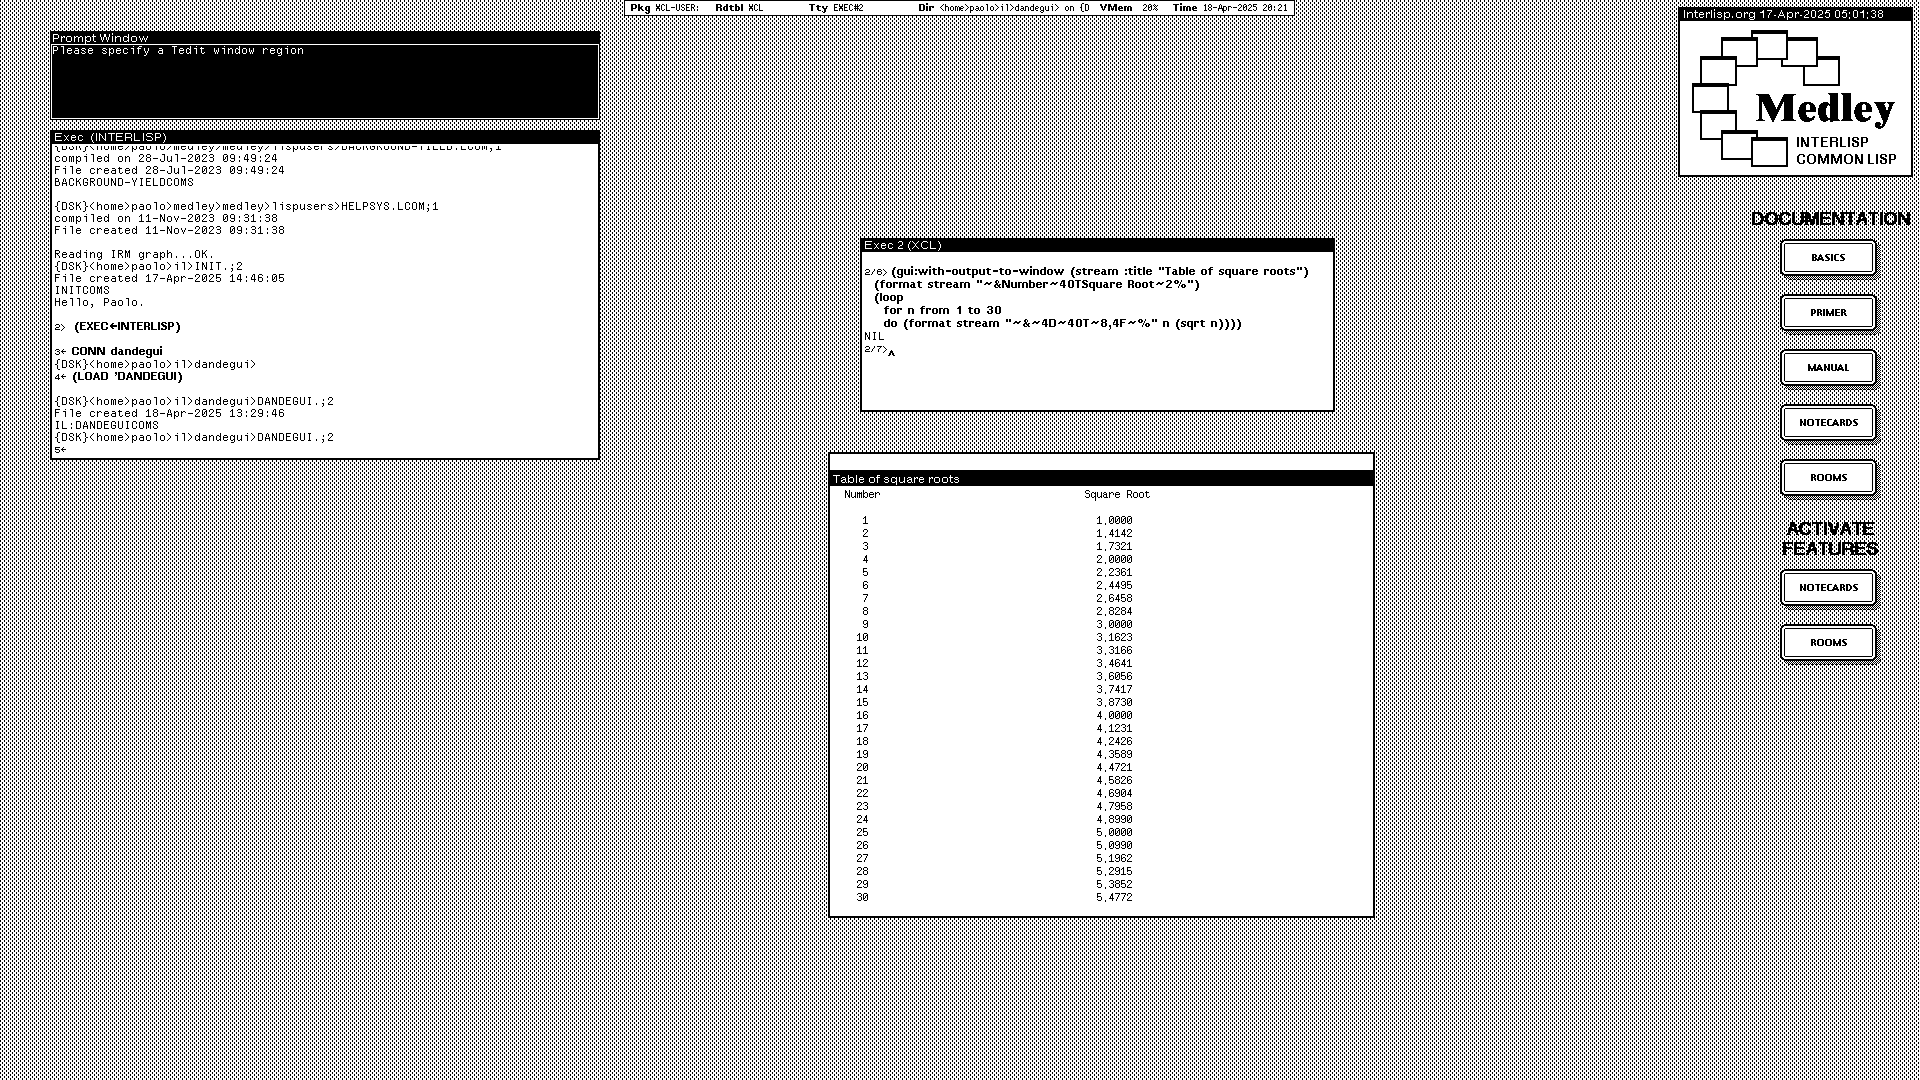
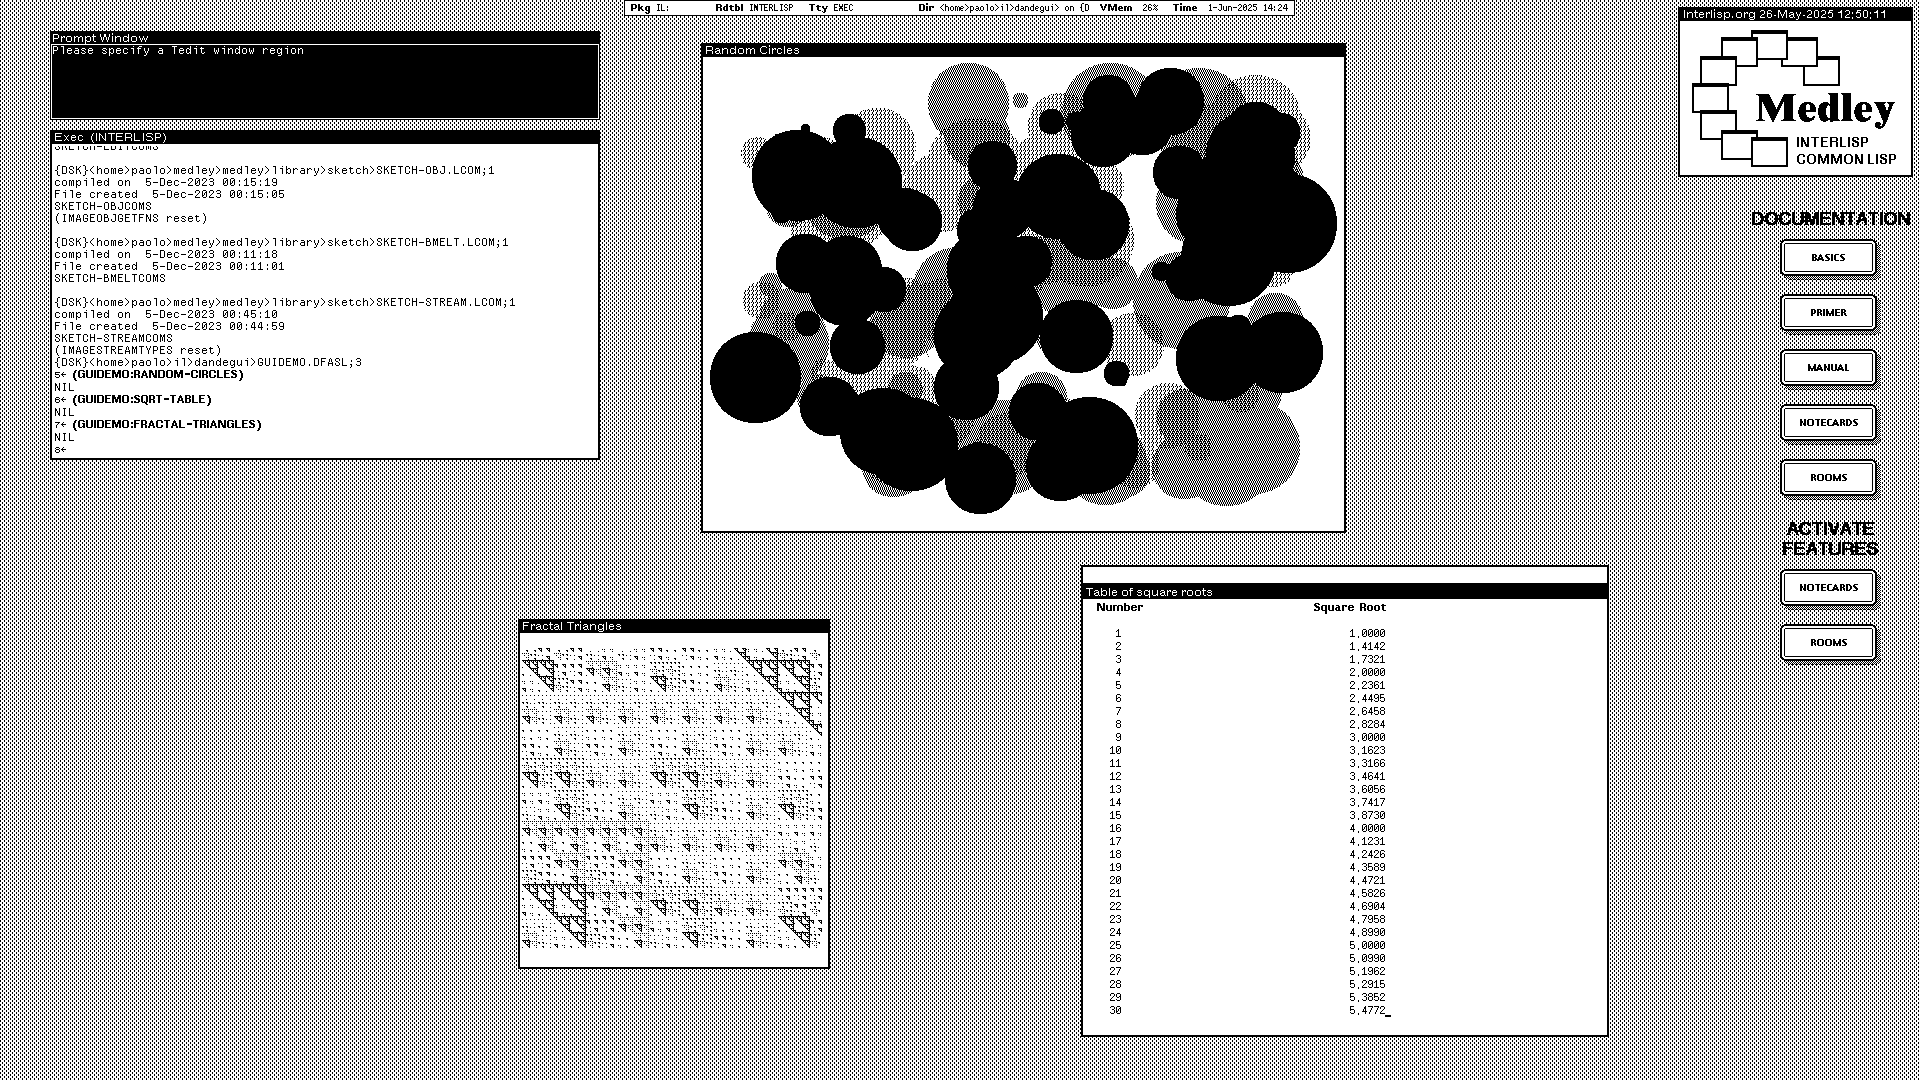
Implement graphics support
Implement and document the functions and macros for sending output to
graphics window streams.

Revise the documentation of PRINT-MESSAGE, CLEAR-WINDOW, and
WINDOW-TITLE to reflect their support for graphics streams. Update the
screenshot with one that also shows graphics output.

Changed region(s): [[0.25, 0.0306, 0.8438, 0.9778], [0.0312, 0.1528, 0.1562, 0.3972], [0.9375, 0.0, 0.9688, 0.0306]]

diff --git a/README.md b/README.md
@@ -2,7 +2,7 @@
 
 DandeGUI (pronounced "dandy guy") is a Medley Interlisp library of GUI elements and facilities for programs that output simple text and graphics.
 
-![A text output window created with DandeGUI on Medley Interlisp and the Lisp code that generated it.](https://raw.githubusercontent.com/pamoroso/dandegui/main/dandegui.png)
+![Some text and graphics output windows created with DandeGUI on Medley Interlisp.](https://raw.githubusercontent.com/pamoroso/dandegui/main/dandegui.png)
 
 The library, which is written in and exposes its functionality as Common Lisp, provides windows for stream-based text and graphical output which automaticaly handle repainting, resizing, and scrolling. DandeGUI captures typical GUI patterns of the Medley environment such as printing text to a new window instead of an Exec.
 
@@ -30,75 +30,94 @@ or:
 
 ## Usage
 
-The functions and macros of DandeGUI create read-only, resizable windows with scrollable content and allow to send output to these windows. Any text in the windows may be selected and copied via the usual facilities of the Medley environment.
+The facilities of DandeGUI create read-only, resizable windows with scrollable content and allow to send output to these windows. Any text in text windows may be selected and copied via the usual facilities of the Medley environment.
 
 
 ### Examples
 
-Suppose you want to display a table of square roots in new window. The table contains a row with the headings of two columns, one for a sequence of numbers and the other for the corresponding square roots. The simplest way to do this is to use the DandeGUI macro `WITH-OUTPUT-TO-WINDOW`:
+The functions and macros of DandeGUI set up and control windows to which programs can send text or graphical via the Lisp streams associated with the windows.
+
+
+#### Printing text
+
+Suppose you want to display a table of square roots in a new window. The table contains a row with the headings of two columns, one for a sequence of numbers and the other for the corresponding square roots. The simplest way to do this is to use the DandeGUI macro `WITH-OUTPUT-TO-WINDOW`:
 
 ```lisp
-(gui:with-output-to-window (stream :title "Table of square roots")
-  (format stream "~&Number~40TSquare Root~2%")
-  (loop
-    for n from 1 to 30
-    do (format stream "~&~4D~40T~8,4F~%" n (sqrt n))))
+(GUI:WITH-OUTPUT-TO-WINDOW (STREAM :TITLE "Table of square roots")
+  (FORMAT STREAM "~&Number~40TSquare Root~2%")
+  (LOOP
+    FOR N FROM 1 TO 30
+    DO (FORMAT STREAM "~&~4D~40T~8,4F~%" N (SQRT N))))
 ```
 
-This code produces the main window in the screenshot above. The variable `stream` is bound to the stream associated to a newly created window with title supplied by `:title`. The calls to `format` populate the table by printing to `stream`.
+This code produces one of the windows in the screenshot above. The variable `stream` is bound to the stream associated with a newly created window with title supplied by `:TITLE`. The calls to `FORMAT` populate the table by printing to `STREAM`.
 
 
 #### Changing text style
 
-The macro `WITH-TEXT-STYLE` lets you control the attributes of the text printed to a window such as the family and face of the font. Let's modify the square root table example to call `WITH-TEXT-STYLE` to print the column heading in a 12 points sans serif bold font:
+The macro `WITH-TEXT-STYLE` lets you change the attributes of the text printed to a window such as the family and face of the font. Let's modify the square root table example to call `WITH-TEXT-STYLE` to print the column heading in a 12 points sans serif bold font:
 
 ```lisp
-(gui:with-output-to-window (stream :title "Table of square roots")
-  (gui:with-text-style (stream :family :sans :size 12 :face :bold)
-    (format stream "~&Number~40TSquare Root~2%"))
-  (loop
-    for n from 1 to 30
-    do (format stream "~&~4D~40T~8,4F~%" n (sqrt n))))
+(GUI:WITH-OUTPUT-TO-WINDOW (STREAM :TITLE "Table of square roots")
+  (GUI:WITH-TEXT-STYLE (STREAM :FAMILY :SANS :SIZE 12 :FACE :BOLD)
+    (FORMAT STREAM "~&Number~40TSquare Root~2%"))
+  (LOOP
+    FOR N FROM 1 TO 30
+    DO (FORMAT STREAM "~&~4D~40T~8,4F~%" N (SQRT N))))
 ```
 
 
 #### Using text window streams
 
-Since `stream` is not accessible outside of the scope of the macro, `WITH-OUTPUT-TO-WINDOW` works best with one-off output you don't need to append to. A combination of `OPEN-WINDOW-STREAM` and `WITH-WINDOW-STREAM` is a better option if instead you generate the output in successive steps; from different parts of the program; or interleave output to more than one window:
+Since the bound stream is not accessible outside of the scope of the macro, `WITH-OUTPUT-TO-WINDOW` works best with one-off output you don't need to append to. A combination of `OPEN-WINDOW-STREAM` and `WITH-WINDOW-STREAM` is a better option if instead you generate the output in successive steps; from different parts of the program; or interleave output to more than one window:
 
 ```lisp
-(defun print-output1 (stream)
-  (with-window-stream (str stream)
-    (format str "...")
+(DEFUN PRINT-OUTPUT1 (STREAM)
+  (GUI:WITH-WINDOW-STREAM (STR STREAM)
+    (FORMAT STR "...")
   
     ;; ...
   
-    (format str "...")))
+    (FORMAT STR "...")))
 
-(defun print-output2 (stream)
-  (with-window-stream (str stream)
-    (format str "...")
+(DEFUN PRINT-OUTPUT2 (STREAM)
+  (GUI:WITH-WINDOW-STREAM (STREAM)
+    (FORMAT STR "...")
   
     ;; ...
   
-    (format str "...")))
+    (FORMAT STR "...")))
 
-(defun do-something-else ()
+(DEFUN DO-SOMETHING-ELSE ()
   ;; ...
   )
 
-(defun main-program ()
-  (let ((stream (gui:open-window-stream :title "Output Window")))
-    (print-output1 stream)
-    (do-something-else)
-    (print-output2 stream)))
+(DEFUN MAIN-PROGRAM ()
+  (LET ((STREAM (GUI:OPEN-WINDOW-STREAM :TITLE "Output Window")))
+    (PRINT-OUTPUT1 STREAM)
+    (DO-SOMETHING-ELSE)
+    (PRINT-OUTPUT2 STREAM)))
 
-(main-program)
+(MAIN-PROGRAM)
 ```
 
-The function `OPEN-WINDOW-STREAM` creates a new window with title supplied by`:TITLE` and returns the associated output stream which output functions can print to. The functions must be wrapped in the context `WITH-WINDOW-STREAM` establishes by binding a variable to the appropriate stream. 
+The function `OPEN-WINDOW-STREAM` creates a new window with title supplied by`:TITLE` and returns the corresponding output stream which output functions can print to. The functions must be wrapped in the context `WITH-WINDOW-STREAM` establishes by binding a variable to the appropriate stream. 
 
-Like any other open stream the value of `OPEN-WINDOW-STREAM` may be closed when no longer in use, for example with `CLOSE`.
+Like any other open stream the value of `OPEN-WINDOW-STREAM` may be closed when no longer in use, for example with `IL:CLOSE`.
+
+
+#### Drawing graphics
+
+The macro `WITH-GRAPHICS-STREAM` is the equivalent of `WITH-OUTPUT-TO-WINDOW` for graphics: it binds a variable to the stream of a new window to which the graphics operations in the body can send output to. This example uses `WITH-GRAPHICS-STREAM` to draw a pattern of triangular fractals:
+
+```lisp
+(GUI:WITH-GRAPHICS-WINDOW (STREAM :TITLE "Fractal Triangles")
+  (DOTIMES (X 300)
+    (DOTIMES (Y 300)
+      (WHEN (ZEROP (MOD (LOGIOR X Y)
+                        7))
+        (IL:DRAWPOINT X Y NIL STREAM)))))
+```
 
 
 ### Demos
@@ -107,7 +126,17 @@ The file `GUIDEMO` provides sample code to demonstrate the features of DandeGUI 
 
 To run the demos first load the file with `(LOAD 'GUIDEMO)`, which is not necessary to compile. If the compiled file `DANDEGUI.FASL` isn't already loaded `GUIDEMO` will load it assuming it's in the same directory or somewhere in the load path.
 
-`GUIDEMO` exports the following functions from the `GUIDEMO` package.
+`GUIDEMO` exports from the `GUIDEMO` package the following functions which produce the corresponding output in the screenshot.
+
+
+#### `FRACTAL-TRIANGLES &KEY WIDTH HEIGHT` [function]
+
+Draw a pattern of triangular fractals in a new window. The pattern has a size of `WIDTH` by `HEIGHT` pixels which both have defaults.
+
+
+#### `RANDOM-CIRCLES &KEY N MAX-R WIDTH HEIGHT` [fnction]
+
+Draw `N` random filled circles in a new window. The circles are filled with a random shade, have a maximum radius `MAX-R`, and are drawn in an area of `WIDTH` by `HEIGHT` pixels. `N`, `MAX-R`, `WIDTH`, and `HEIGHT` have suitable defaults.
 
 
 #### `SQRT-TABLE &OPTIONAL N` [function]
@@ -117,57 +146,86 @@ Displays in a new text window a table of the square roots of the integers up to 
 
 ### API reference
 
-The functionality of DandeGUI is accessible via the following functions and macros in the `DANDEGUI` package nicknamed `GUI`.
+The functionality of DandeGUI is accessible via the following functions and macros exported from the `DANDEGUI` package nicknamed `GUI`. They operate on Lisp streams of two types, text and graphics.
 
-Whenever a stream is passed or returned it is intended as an Interlisp `TEXTSTREAM` to which text may be printed by any output function that takes a stream as an argument such as with `FORMAT`, `PRIN1`, and so on. However, these functions must be called only using the DandeGUI output context macros and not outside ot them.
+DandeGUI text output functions and macros operate on Interlisp `TEXTSTREAM` streams to which text may be sent by any printing function that takes a stream as an argument such as with `CL:FORMAT`, `CL:PRIN1`, and so on. However, these functions must be called using the DandeGUI output context macros and not outside ot them.
 
-
-#### `CLEAR-WINDOW STREAM` [function]
-
-Delete the text of the window associated with `STREAM`. More output may later be sent to the stream and the new text will appear at the beginning of the window.
+DandeGUI graphical output facilities operate on Interlisp `IMAGESTREAM` streams to which graphical elements may be drawn by most graphics primitives that take a stream as an argument such `IL:DRAWLINE` and `IL:DRAWPOINT`.
 
 
-#### `*DEFAULT-FONT*` [variable]
+#### Text output
 
-The default font of text windows, which must be an Interlisp font descriptor or a font list such as `(IL:TERMINAL 10)`.
-
-
-#### `OPEN-WINDOW-STREAM &KEY TITLE` [function]
+##### `OPEN-WINDOW-STREAM &KEY TITLE` [function]
 
 Opens a new text window and returns the associated output stream. The function sets the window title to `TITLE` if supplied.
 
 
-#### `PRINT-MESSAGE STREAM MESSAGE &OPTIONAL DONT-CLEAR-P` [function]
-
-Prints the string `MESSAGE` to the prompt area of the text window associated with `STREAM` and returns `STREAM`. If `DONT-CLEAR-P` is non NIL the area will be cleared first.
-
-To clear the prompt area pass the empty string as the message and `t` as the optional argument, e.g. call `(gui:print-message stream "" t)`.
-
-
-#### `WINDOW-TITLE STREAM` [function]
-
-Returns the title associated with `STREAM` or sets it if called from `SETF`.
-
-
-#### `WITH-OUTPUT-TO-WINDOW (VAR &KEY TITLE) &BODY BODY` [macro]
+##### `WITH-OUTPUT-TO-WINDOW (VAR &KEY TITLE) &BODY BODY` [macro]
 
 Performs the operations in `BODY` with `VAR` bound to a new text window stream.
 
-Creates a new window titled `TITLE` if supplied, binds `VAR` to the `TEXTSTREAM` associated with the window, and executes `BODY` in this context. Returns the value of the last form of `BODY`. After control leaves the context of `WITH-OUTPUT-TO-WINDOW` the new window no longer accepts output to the associated stream.
+Creates a new window titled `TITLE` if supplied, binds `VAR` to the stream associated with the window, and executes `BODY` in this context. Returns the value of the last form of `BODY`. After control leaves the context of `WITH-OUTPUT-TO-WINDOW` the new window no longer accepts output to the associated stream.
 
 
-#### `WITH-TEXT-STYLE (STREAM &KEY FAMILY SIZE FACE) &BODY BODY` [macro]
+##### `WITH-TEXT-STYLE (STREAM &KEY FAMILY SIZE FACE) &BODY BODY` [macro]
 
-Performs the operations in `BODY` in a context in which text printed to `STREAM` is rendered in the text style specified by `FAMILY`, `SIZE`, and `FACE`. Uses `*DEFAULT-FONT*` if no matching style is available.
+Performs the operations in `BODY` in a context in which text printed to the text stream `STREAM` is rendered in the style specified by `FAMILY`, `SIZE`, and `FACE`. Uses `*DEFAULT-FONT*` if no matching style is available.
 
 `FAMILY` must be one of `:SERIF` for serif, `:SANS` for sans serif, `:FIX` for fixed width, or a keyword denoting a family name such as `:TIMESROMAN`. `FACE` must be one of `:STANDARD`, `:ITALIC`, `:BOLD`, or `:BOLDITALIC`. Returns the value of the last expression of `BODY`.
 
 
-#### `WITH-WINDOW-STREAM (VAR STREAM) &BODY BODY` [macro]
+##### `WITH-WINDOW-STREAM (VAR STREAM) &BODY BODY` [macro]
 
 Performs the operations in `BODY` with `VAR` bound to a text window `STREAM`.
 
 Evaluates the forms in `BODY` in a context in which `VAR` is bound to `STREAM` which must already exist, then returns the value of the last form of BODY.
+
+
+#### Graphics output
+
+##### `OPEN-GRAPHICS-STREAM &KEY TITLE` [function]
+
+Opens a new window and returns the associated graphics stream to send output to. Sets the window title to `TITLE` if supplied, to a default title otherwise.
+
+
+##### `WITH-GRAPHICS-STREAM (VAR STREAM) &BODY BODY` [macro]
+
+Performs the operations in `BODY` with `VAR` bound to the graphics window `STREAM`.
+
+Evaluates the forms in `BODY` in a context in which `VAR` is bound to `STREAM` which must already exist, then returns the value of the last form of `BODY`.
+
+
+##### `WITH-GRAPHICS-WINDOW (VAR &KEY TITLE) &BODY BODY` [macro]
+
+Perform the operations in `BODY` with `VAR` bound to a new graphics window stream.
+
+Creates a new window titled `TITLE` if supplied, binds `VAR` to the stream associated with the window, and executes `BODY` in this context. Returns the value of the last form of `BODY`. After control leaves the context of `WITH-GRAPHICS-WINDOW` the new window no longer accepts output to the associated stream.
+
+
+#### Window control
+
+##### `CLEAR-WINDOW STREAM` [function]
+
+Clears the contents of the window associated with `STREAM` and returns `STREAM`. New output will appear at the top left corner of a text window and at the bottom left of a graphics window.
+
+The function does nothing if the argument is not a `TEXTSTREAM` or `IMAGESTREAM`.
+
+
+##### `*DEFAULT-FONT*` [variable]
+
+The default font of windows, which must be an Interlisp font descriptor or font list such as `(IL:TERMINAL 10)`.
+
+
+##### `PRINT-MESSAGE STREAM MESSAGE &OPTIONAL DONT-CLEAR-P` [function]
+
+Prints `MESSAGE` to the prompt area of the window associated with `STREAM` if it is a text stream, to the system prompt window otherwise. If `DONT-CLEAR-P` is non `NIL` the area or prompt window will be cleared first. Returns `STREAM`.
+
+To clear the prompt area pass the empty string as the message and `T` as the optional argument, e.g. call `(GUI:PRINT-MESSAGE STREAM "" T)`.
+
+
+##### `WINDOW-TITLE STREAM` [function]
+
+Returns the title of the window associated with `STREAM` or sets it if called from `SETF`.
 
 
 ## Learn more
